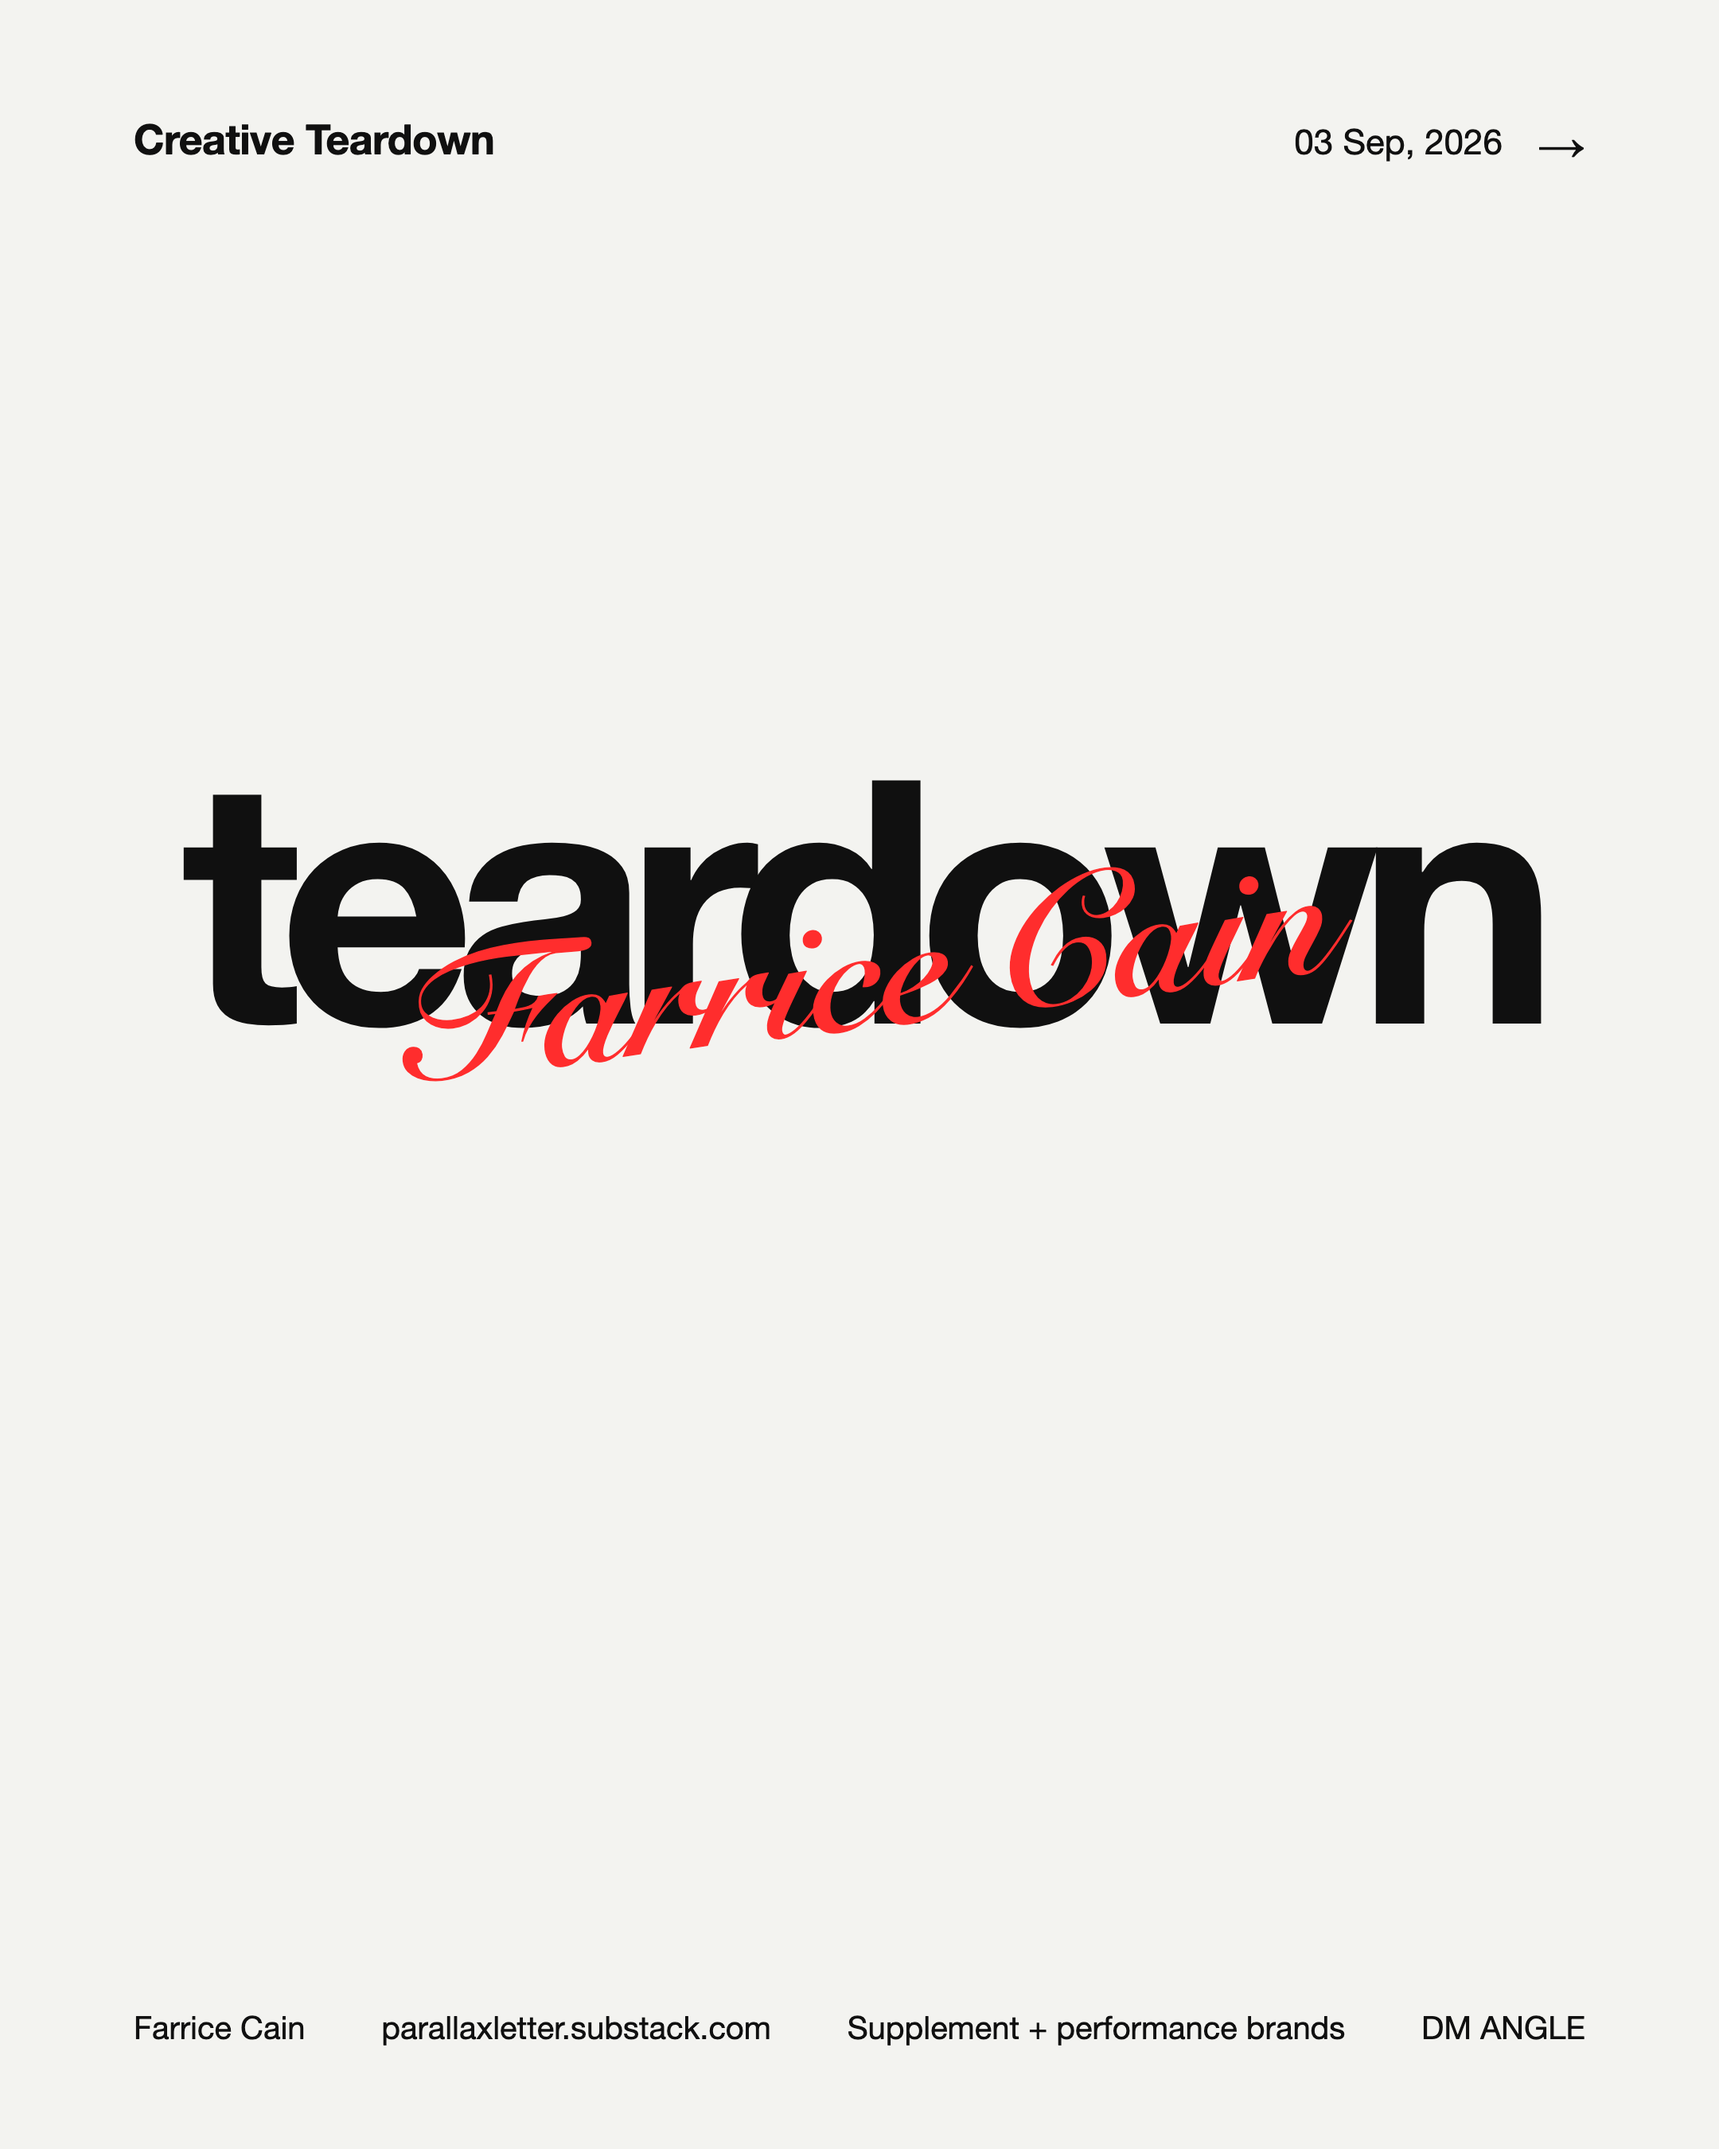
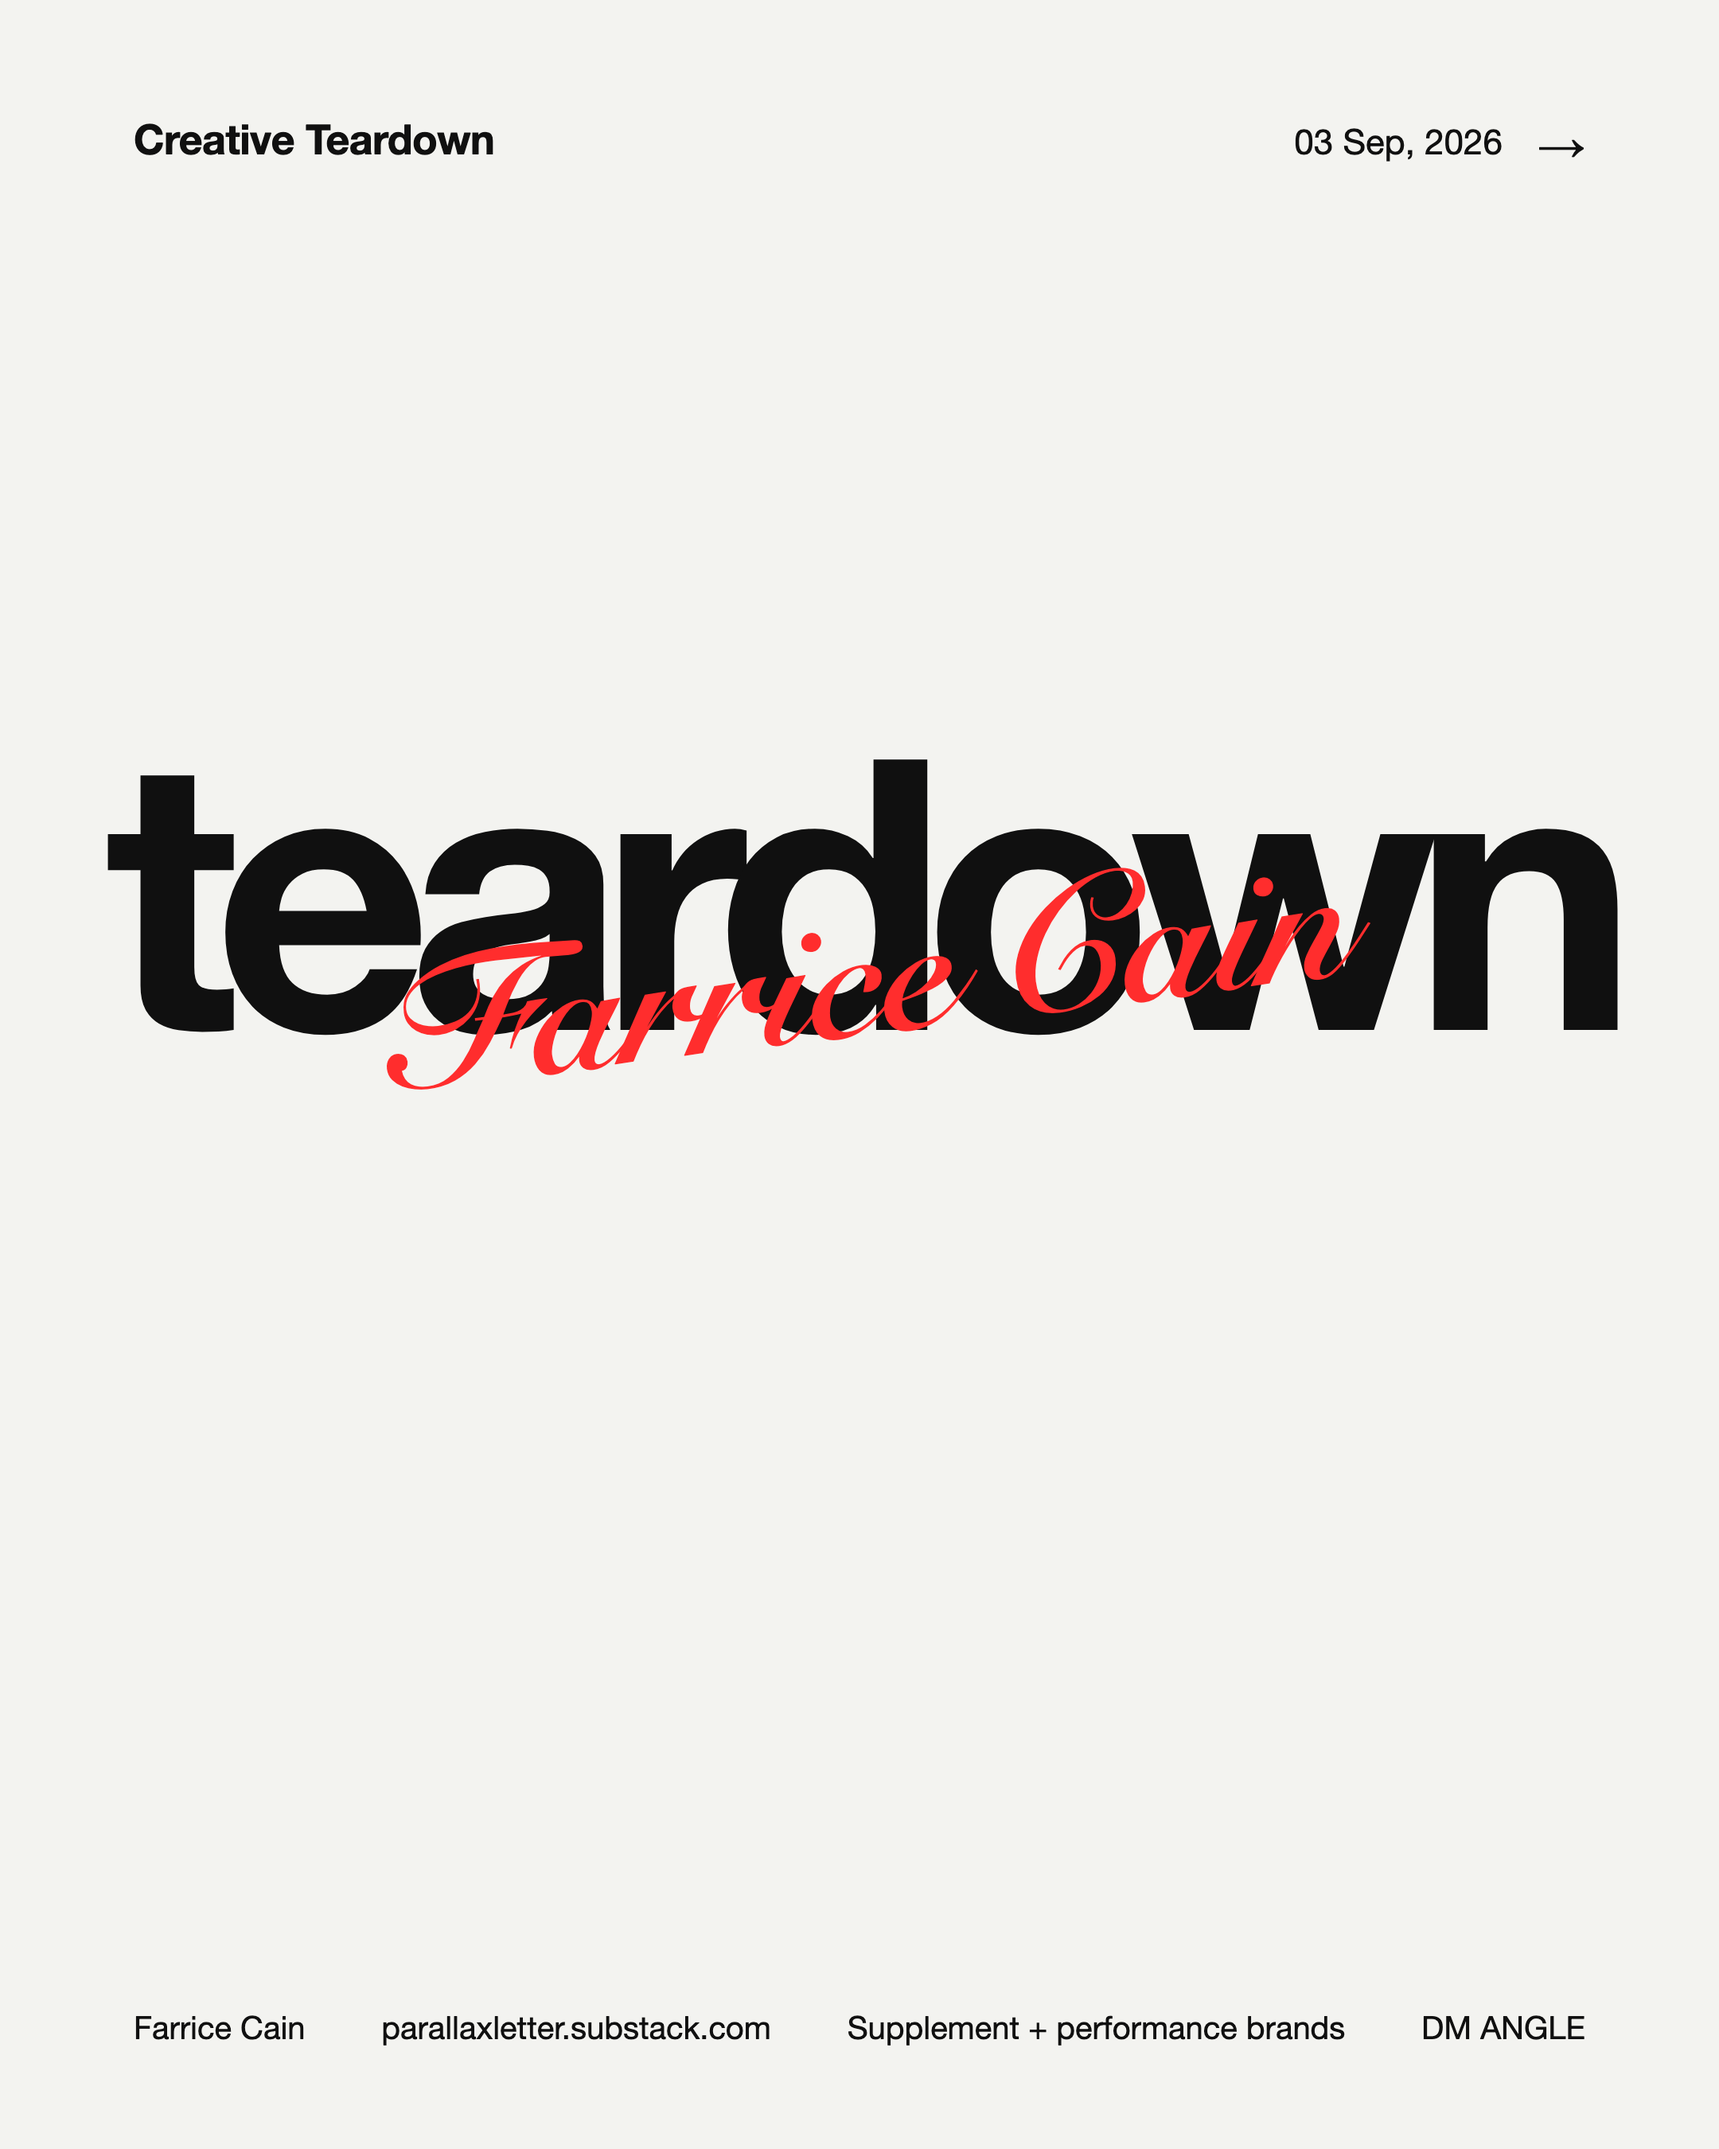
chore(brand): giant words margin-to-margin; styles.json (editorial + typographic); REVIEW-NOTES pivot record

Changed region(s): [[0.062, 0.3422, 0.9616, 0.5289]]

diff --git a/brand_context/visual-identity/compositions/editorial/frames/01-cover-signature.html b/brand_context/visual-identity/compositions/editorial/frames/01-cover-signature.html
@@ -4,8 +4,8 @@
   <div class="m head"><span class="title">Creative Teardown</span><span class="date">03 Sep, 2026 <span class="arrow">→</span></span></div>
 
   <!-- giant lowercase word, bleeding past the margins like the reference; signature crosses it -->
-  <div class="giant fit" style="position:absolute; top:470px; font-size:214px; letter-spacing:-0.065em;">teardown</div>
-  <div class="sig" style="left:250px; top:540px; font-size:112px;">Farrice Cain</div>
+  <div class="giant fit" style="position:absolute; top:455px; font-size:238px; letter-spacing:-0.065em;">teardown</div>
+  <div class="sig" style="left:240px; top:540px; font-size:116px;">Farrice Cain</div>
 
   <div class="m foot"><span>Farrice Cain</span><span>parallaxletter.substack.com</span><span>Supplement + performance brands</span><span>DM ANGLE</span></div>
 </div></body></html>

diff --git a/brand_context/visual-identity/compositions/editorial/frames/08-thanks-signature.html b/brand_context/visual-identity/compositions/editorial/frames/08-thanks-signature.html
@@ -3,8 +3,8 @@
 <body><div class="frame">
   <div class="m head"><span class="title">Creative Teardown</span><span class="date">03 Sep, 2026 <span class="arrow">→</span></span></div>
 
-  <div class="giant fit" style="position:absolute; top:480px; font-size:214px; letter-spacing:-0.065em;">dm angle</div>
-  <div class="sig" style="left:290px; top:552px; font-size:112px;">Farrice Cain</div>
+  <div class="giant fit" style="position:absolute; top:465px; font-size:250px; letter-spacing:-0.065em;">dm angle</div>
+  <div class="sig" style="left:280px; top:556px; font-size:116px;">Farrice Cain</div>
 
   <div class="m foot"><span>Farrice Cain</span><span>parallaxletter.substack.com</span><span>Supplement + performance brands</span><span>DM ANGLE</span></div>
 </div></body></html>

diff --git a/brand_context/templates/linkedin-carousel/REVIEW-NOTES.md b/brand_context/templates/linkedin-carousel/REVIEW-NOTES.md
@@ -14,5 +14,12 @@ Craft pass (in-pool CSS only, canonical re-render via `render_template.py`, no A
 
 Open: the Scrapes builder gate will re-flag these templates if a builder is ever re-spawned on them (Check D floor). That gate is theirs; we never edit inside `.claude/skills/`. Content-time rendering does not re-run it.
 
+## 2026-09-03 — aesthetic pivot: the editorial style (Farrice)
+> "I would rather this be the template. Our content aesthetic needs to be better… clean, minimal, and durable… pictures of the product, pictures that are relevant and context-aware… the call to action and sign-off."
+
+Bar: the Canva "Creative Presentation" set he pasted (grey canvas, giant lowercase words, red script signature, big editorial photos, header title + date + arrow, footer strip). Re-solved for 4:5 as eight HTML reference frames in `brand_context/visual-identity/compositions/editorial/frames/` → rendered to `brand_context/visual_refs/editorial/`. Decisions: red unlocked for the signature only (`tokens.json colors.signature_accent`, move #10); Snell Roundhand (system) as the placeholder signature until his handwriting lands in `visual-identity/logos/`; every photo zone holds a REAL source (Meta Ad Library capture, Huel product page capture, his studio portrait) — stock imagery rejected on sight; `styles.json` splits the pool into `editorial` (default for teardowns) and `typographic`.
+
+His read on the frames (approved with notes): "compositional layout and hierarchy… crowding… spacing… bleed… positioning." Pass applied: giant words fit the canvas margin to margin without clipping, body left-aligned (justified made rivers), items spaced on a 160–170px rhythm, hairline added above the three-column row, labels shortened to one line, CTA label right-aligned with an arrow.
+
 ## How to leave notes next time (verified 2026-09-03 with a test pin)
 Template Studio → top bar → **Comment** pill (toggles comment mode; a toast confirms) → click the slide where the note belongs → a small composer opens → type → press the composer's **Comment** button (Return does NOT submit) → top bar **Save**. The pin lands in `<template>/comments.json` (per template, not at the pool root). Say "read my Studio comments" and every `comments.json` under this pool gets pulled into the next pass. Four pins on four templates is a full review.
